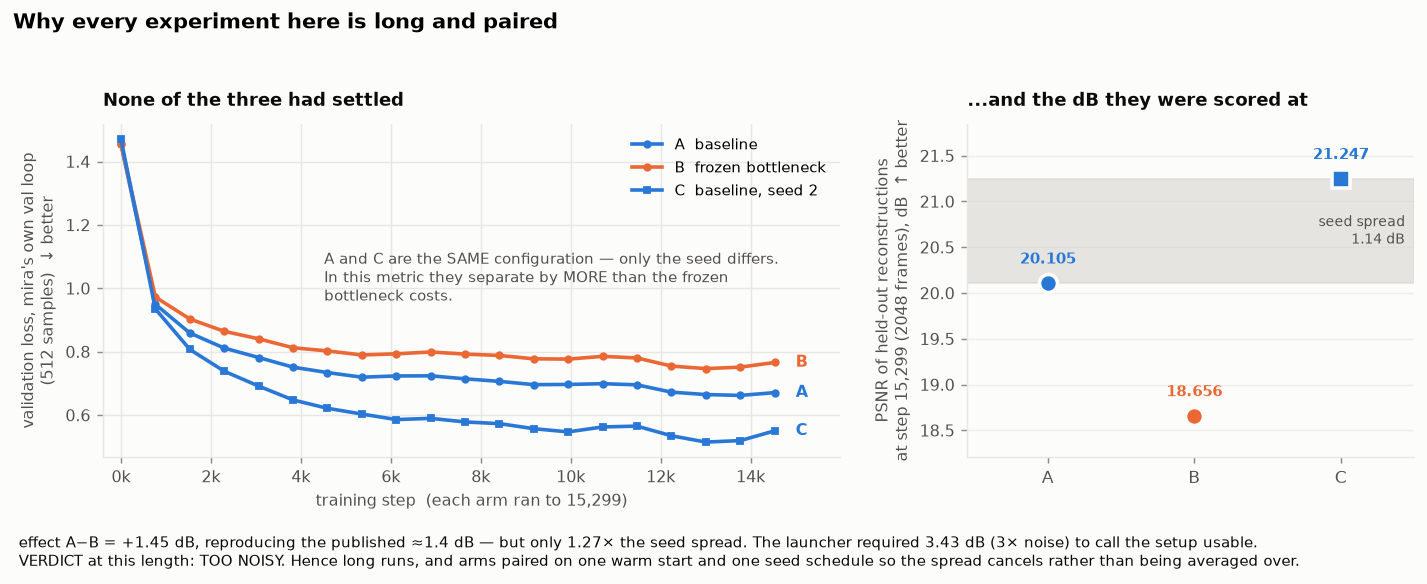
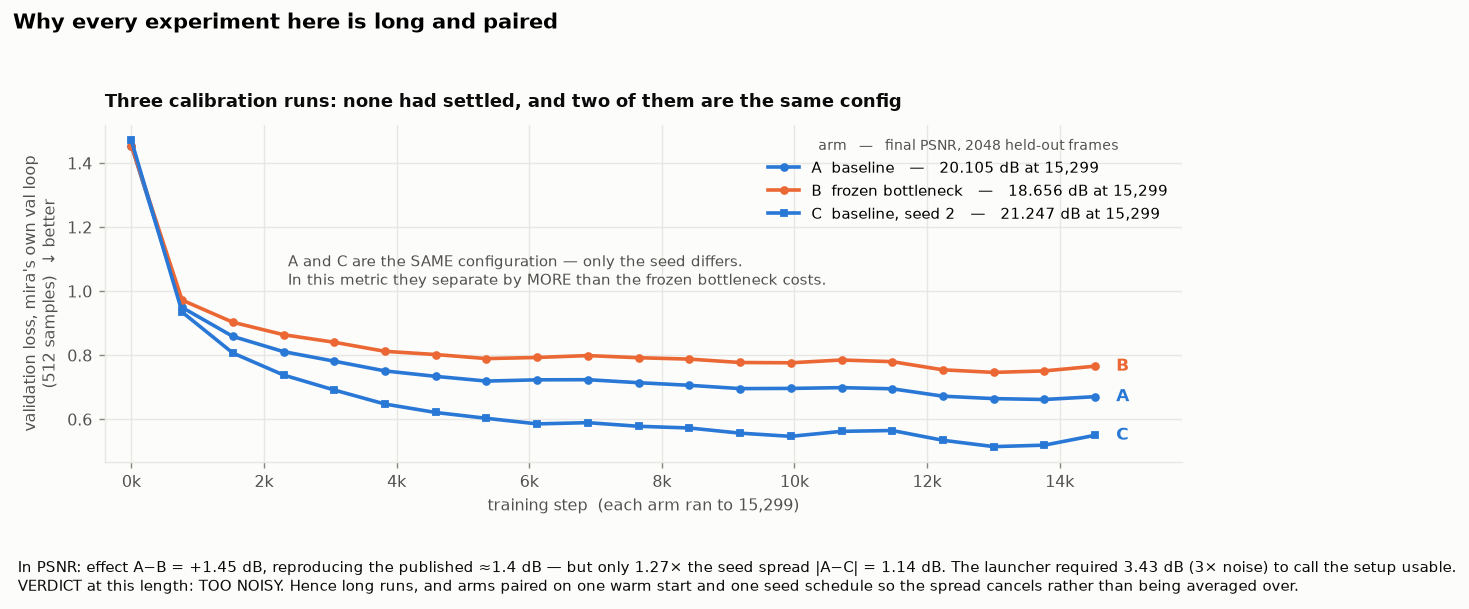
postprocessing: drop the single-point panel from the calibration figure
The right panel held one PSNR reading per arm, which is not a curve and does not
earn a panel. The obvious fix -- loss falling beside PSNR rising on a shared step
axis -- turns out to be impossible, and the reason is worth recording.

These runs used checkpoint_keep_recent: 1, the default in
codec/configs/kmira_train_codec.yaml, so every intermediate checkpoint was
deleted as they advanced. Only checkpoint-15299 survives for each arm. PSNR for
A/B/C therefore exists at exactly one step and always will, unless all three
runs are redone (~6h GPU) with checkpoints retained. Since GPU time is what is
currently gating learn7, that is not worth spending on a nicer version of a
figure whose conclusion is already established.

So: one panel of the validation curves -- the only per-step record these arms
have -- with each arm's final dB folded into the legend beside the identity it
belongs to. Explicitly NOT done: transforming the loss into something that rises
so the figure looks like the one that cannot be drawn. That would read as PSNR
without being it, on a page whose whole claim is that its numbers are generated
rather than constructed.

Added to AGENTS.md as a gotcha, because it is unrecoverable after the fact:
checkpoint_keep_recent decides whether a run's trajectory can EVER be scored. If
a run's shape might matter later, raise it or score inline per chunk the way the
plateau and warm-start launchers do. The calibration arms are permanently one
[…]

diff --git a/postprocessing/plot_calibration.py b/postprocessing/plot_calibration.py
@@ -10,12 +10,16 @@ A−B says whether the benchmark can SEE a bottleneck-sized change. |A−C| says
 be before it means anything. The launcher demanded A−B > 3·|A−C| to call the setup usable, and it
 did not clear that. This figure is why the protocol for everything after looks the way it does.
 
-TWO PANELS, TWO DIFFERENT QUANTITIES, deliberately not on one axis:
+WHY THIS IS ONE PANEL AND NOT TWO. The obvious figure is loss falling beside PSNR rising on a
+shared step axis. That figure cannot be drawn: these runs set `checkpoint_keep_recent: 1`, so every
+intermediate checkpoint was deleted as they advanced and PSNR exists for A/B/C at exactly one step.
+Three points is not a curve, and a panel holding them earns nothing -- so the dB go in the legend,
+beside the arm they belong to. Recovering the real curve means re-running all three arms (~6h GPU)
+with checkpoints retained, or scoring inline. Transforming the loss into something that rises would
+look like PSNR without being it, so it is not done here.
 
-* left  -- mira's validation loss over training (512 samples, from the run logs). The only per-step
-           record these arms have, and what shows whether they had settled. They had not.
-* right -- PSNR of held-out reconstructions at the final step (2048 frames, eval_codec). The dB
-           numbers everything else on the page is quoted in, and the only step where they exist.
+What is plotted is mira's own validation loss (512 samples, parsed from the run logs), which is the
+only per-step record these arms have and is what shows whether they had settled. They had not.
 
 COLOUR FOLLOWS THE CONFIGURATION, not the run: A and C are the *same* configuration differing only
 in seed, so they share a hue and are separated by marker and label. Two blue curves landing far
@@ -29,11 +33,8 @@ import json
 import matplotlib.pyplot as plt
 from lib import (
     DATA,
-    GRID,
     INK,
     INK_SOFT,
-    RECESSIVE,
-    SURFACE,
     apply_style,
     load_rows,
     save,
@@ -65,36 +66,50 @@ def build():
     n_frames = a["n_frames"]
 
     apply_style()
-    fig, (ax, ax2) = plt.subplots(1, 2, figsize=(11.0, 4.5), gridspec_kw={"width_ratios": [1.65, 1]})
+    fig, ax = plt.subplots(figsize=(9.2, 4.7))
 
-    # ---- left: validation curves ----------------------------------------------------------------
+    # ONE panel, not two. There is no PSNR curve to put beside this one: `checkpoint_keep_recent: 1`
+    # deleted every intermediate checkpoint as these runs advanced, so PSNR exists for A/B/C at
+    # exactly one step and a panel holding three points earns nothing. The dB are folded into the
+    # legend instead, where they sit next to the identity they belong to. Faking a rising curve by
+    # transforming the loss would look like PSNR and not be it.
     for tag, label, color, marker in ARMS:
         rec = curves.get(tag)
         if not rec:
             continue
         xs = [r["step"] for r in rec["readings"]]
         ys = [r[METRIC] for r in rec["readings"]]
-        ax.plot(xs, ys, color=color, marker=marker, markersize=3.6, label=label, zorder=3)
+        ax.plot(
+            xs,
+            ys,
+            color=color,
+            marker=marker,
+            markersize=3.8,
+            label=f"{label}   —   {scored[tag]['psnr']:.3f} dB at {step:,}",
+            zorder=3,
+        )
         ax.annotate(
             f"  {label.split('  ')[0]}",
             xy=(xs[-1], ys[-1]),
             xytext=(5, 0),
             textcoords="offset points",
             va="center",
-            fontsize=9,
+            fontsize=9.5,
             fontweight="bold",
             color=color,
         )
 
     ax.set_xlabel(f"training step  (each arm ran to {step:,})")
     ax.set_ylabel("validation loss, mira's own val loop\n(512 samples)  ↓ better")
-    ax.set_title("None of the three had settled", loc="left")
-    ax.set_xlim(-400, max(r["step"] for r in curves["A_baseline"]["readings"]) * 1.10)
-    ax.legend(loc="upper right", fontsize=8.5)
+    ax.set_title("Three calibration runs: none had settled, and two of them are the same config", loc="left")
+    ax.set_xlim(-400, max(r["step"] for r in curves["A_baseline"]["readings"]) * 1.09)
+    leg = ax.legend(loc="upper right", fontsize=8.5, title="arm   —   final PSNR, 2048 held-out frames")
+    leg.get_title().set_fontsize(8)
+    leg.get_title().set_color(INK_SOFT)
     ax.annotate(
         "A and C are the SAME configuration — only the seed differs.\n"
-        "In this metric they separate by MORE than the frozen\nbottleneck costs.",
-        xy=(0.30, 0.62),
+        "In this metric they separate by MORE than the frozen bottleneck costs.",
+        xy=(0.17, 0.62),
         xycoords="axes fraction",
         fontsize=8.5,
         color=INK_SOFT,
@@ -103,49 +118,6 @@ def build():
     thousands(ax)
     spines(ax)
 
-    # ---- right: final scored PSNR, dB on the y axis ---------------------------------------------
-    lo, hi = min(a["psnr"], c["psnr"]), max(a["psnr"], c["psnr"])
-    ax2.axhspan(lo, hi, color=RECESSIVE, alpha=0.6, zorder=1)
-    ax2.annotate(
-        f"seed spread\n{noise:.2f} dB",
-        xy=(2.44, (lo + hi) / 2),
-        ha="right",
-        va="center",
-        fontsize=8,
-        color=INK_SOFT,
-    )
-    for i, (tag, label, color, marker) in enumerate(ARMS):
-        r = scored[tag]
-        ax2.plot(
-            [i],
-            [r["psnr"]],
-            marker=marker,
-            markersize=10,
-            color=color,
-            zorder=4,
-            markeredgecolor=SURFACE,
-            markeredgewidth=2,
-        )
-        ax2.annotate(
-            f"{r['psnr']:.3f}",
-            xy=(i, r["psnr"]),
-            xytext=(0, 11),
-            textcoords="offset points",
-            ha="center",
-            fontsize=8.5,
-            fontweight="bold",
-            color=color,
-        )
-    ax2.set_xticks(range(len(ARMS)))
-    ax2.set_xticklabels([label.split("  ")[0] for _, label, _, _ in ARMS], fontsize=9.5)
-    ax2.set_xlim(-0.55, 2.5)
-    ax2.set_ylim(min(r["psnr"] for r in (a, b, c)) - 0.45, hi + 0.60)
-    ax2.set_ylabel(f"PSNR of held-out reconstructions\nat step {step:,} ({n_frames} frames), dB  ↑ better")
-    ax2.set_title("...and the dB they were scored at", loc="left")
-    ax2.grid(axis="x", visible=False)
-    ax2.grid(axis="y", color=GRID, alpha=0.7)
-    spines(ax2)
-
     fig.suptitle(
         "Why every experiment here is long and paired",
         x=0.008,
@@ -153,15 +125,15 @@ def build():
         fontsize=11.5,
         fontweight="bold",
     )
-    fig.tight_layout(rect=(0, 0.10, 1, 0.94))
+    fig.tight_layout(rect=(0, 0.13, 1, 0.94))
     fig.text(
         0.012,
         0.025,
-        f"effect A−B = {effect:+.2f} dB, reproducing the published ≈{expected:.1f} dB — but only "
-        f"{effect / noise:.2f}× the seed spread. The launcher required {3 * noise:.2f} dB "
-        f"(3× noise) to call the setup usable.\nVERDICT at this length: TOO NOISY. Hence long runs, "
-        "and arms paired on one warm start and one seed schedule so the spread cancels rather than "
-        "being averaged over.",
+        f"In PSNR: effect A−B = {effect:+.2f} dB, reproducing the published ≈{expected:.1f} dB — but "
+        f"only {effect / noise:.2f}× the seed spread |A−C| = {noise:.2f} dB. The launcher required "
+        f"{3 * noise:.2f} dB (3× noise) to call the setup usable.\nVERDICT at this length: TOO NOISY. "
+        "Hence long runs, and arms paired on one warm start and one seed schedule so the spread "
+        "cancels rather than being averaged over.",
         fontsize=8.5,
         color=INK,
         va="bottom",

diff --git a/postprocessing/RESULTS.md b/postprocessing/RESULTS.md
@@ -67,13 +67,18 @@ gap be before it means anything? Three runs of 15,299 steps — a baseline (**A*
 with the bottleneck frozen at a random projection (**B**, a published ≈1.4 dB effect), and the
 baseline again with a different seed (**C**, the noise floor).
 
-The two panels are **different quantities and deliberately not on one axis**. Left is mira's own
-validation loss over training, which is the only per-step record these three runs have — no
-intermediate checkpoints were ever scored for them. Right is PSNR of held-out reconstructions
-(2,048 frames, `eval_codec`) at the final step, which is the only step where the dB numbers exist.
+**Why there is no dB curve here.** The natural figure would be loss falling beside PSNR rising on
+a shared step axis. It cannot be drawn: these runs used `checkpoint_keep_recent: 1`, so every
+intermediate checkpoint was deleted as they advanced, and PSNR for A/B/C exists at exactly one
+step. So what is plotted is mira's own validation loss — the only per-step record these arms have —
+with each arm's single final dB reading folded into the legend beside the arm it belongs to.
+Recovering the real PSNR curve means re-running all three arms (~6h of GPU) with checkpoints
+retained. Transforming the loss into something that rises would look like PSNR without being it,
+so it is not done.
 
 Colour follows the *configuration*, not the run: A and C are the same configuration, so they share
-a hue and differ by marker. Two blue curves landing far apart is the finding.
+a hue and differ by marker. Two blue curves landing far apart, with the orange intervention
+*between* them, is the finding.
 
 - **The effect size reproduced.** A − B = **+1.4489 dB** against mira's published ≈1.4 dB (their
   table `tab:exp-bottleneck`: 29.7 learned vs 28.3 random frozen). The benchmark can see a

diff --git a/AGENTS.md b/AGENTS.md
@@ -191,6 +191,12 @@ any of these costs real time or a real bug, so they live here rather than only i
   mix roughly constant rather than letting it drift as a variant changes the latent. Worth knowing
   before suspecting it of confounding an arm-to-arm comparison: the factors are logged as
   `loss_*_auto_w` if you ever want to check rather than assume.
+- **`checkpoint_keep_recent` decides whether a run's trajectory can EVER be scored.** It defaults
+  to 1 in `codec/configs/kmira_train_codec.yaml`, so intermediate checkpoints are deleted as
+  training advances and a run scored only at the end can never be given a curve afterwards — the
+  three calibration arms are permanently one point each for exactly this reason. If a run's shape
+  might matter later, either raise `checkpoint_keep_recent` or score inline per chunk the way the
+  plateau and warm-start launchers do. Disk is the trade: each checkpoint is ~4.4GB.
 - **Calling a plateau/elbow needs several trailing readings, not one flat stretch.** This project
   has hit real false plateaus more than once — a multi-hour flat stretch followed by a further jump
   of over 1 dB. Stopping on the first flat reading has already cost real signal here.
